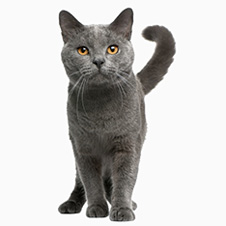
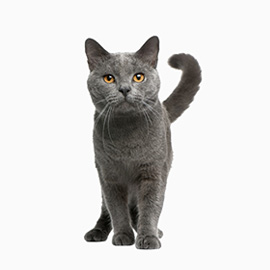
Подготовка правильных изображений животных для карточек и для модальных окон. Вёрстка модалок

Changed region(s): [[0.2478, 0.031, 0.8053, 0.9912]]

diff --git a/source/index.html b/source/index.html
@@ -234,11 +234,12 @@
     </div>
   </footer>
 
-  <section class="modal pet">
+  <section class="modal pet pet--two">
+    <button class="modal__close">Закрыть</button>
     <h2 class="visually-hidden">Pet's description</h2>
     <div class="pet__wrapper">
       <p class="pet__pic">
-        <img class="pet-image" src="" width="" height="" alt="">
+        <img class="pet-image" src="img/animal-1-card.jpg" width="470" height="470" alt="Jennifer">
       </p>
       <div class="pet__desc">
         <h3 class="pet__name">Jennifer</h3>
@@ -246,7 +247,36 @@
         <p class="pet__text">Lorem ipsum dolor sit amet, consectetur adipisicing elit. Numquam nobis nemo, minima sapiente amet expedita voluptas asperiores. Iste, cupiditate, harum accusamus, quasi deserunt alias beatae ex magnam reprehenderit, culpa eius.</p>
         <ul class="pet__params">
           <li class="pet__param">
-            Age: two months
+            Age: 2 months
+          </li>
+          <li class="pet__param">
+            Inoculations: none
+          </li>
+          <li class="pet__param">
+            Diseases: none
+          </li>
+          <li class="pet__param">
+            Parasites: none
+          </li>
+        </ul>
+      </div>
+    </div>
+  </section>
+
+  <section class="modal pet pet--six">
+    <button class="modal__close">Закрыть</button>
+    <h2 class="visually-hidden">Pet's description</h2>
+    <div class="pet__wrapper">
+      <p class="pet__pic">
+        <img class="pet-image" src="" width="" height="" alt="">
+      </p>
+      <div class="pet__desc">
+        <h3 class="pet__name">Charly</h3>
+        <p class="pet__breed">Pooch</p>
+        <p class="pet__text">Lorem ipsum dolor sit amet, consectetur adipisicing elit. Numquam nobis nemo, minima sapiente amet expedita voluptas asperiores. Iste, cupiditate, harum accusamus, quasi deserunt alias beatae ex magnam reprehenderit, culpa eius.</p>
+        <ul class="pet__params">
+          <li class="pet__param">
+            Age: 4 months
           </li>
           <li class="pet__param">
             Inoculations: none

diff --git a/source/css/style.css b/source/css/style.css
@@ -604,5 +604,11 @@ a {
 /* Modal pet */
 
 .modal {
-  display: none;
+  display: block;
+}
+
+.pet {
+  width: 970px;
+  height: 470px;
+  box-sizing: border-box;
 }
